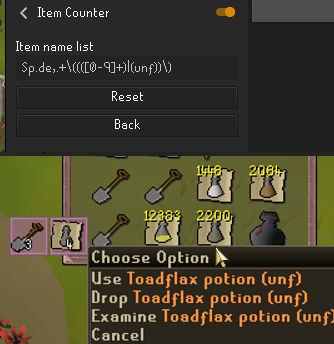
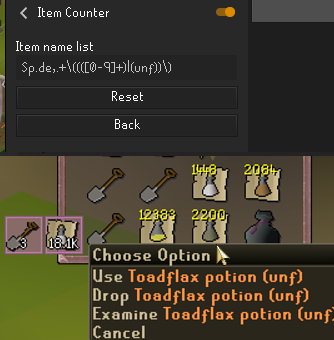
quantity

diff --git a/src/main/java/cc/jambox/ItemCounterPlugin.java b/src/main/java/cc/jambox/ItemCounterPlugin.java
@@ -121,7 +121,7 @@ public class ItemCounterPlugin extends Plugin
 				int itemId = item.getId();
 				String itemName = itemManager.getItemComposition(itemId).getName();
 				if (regex.matcher(itemName).matches()) {
-					running_total++;
+					running_total+=item.getQuantity();
 					matchedAny = true;
 					ItemCounter counter = itemMap.getOrDefault(regex.pattern(), null);
 					if (counter == null) {
